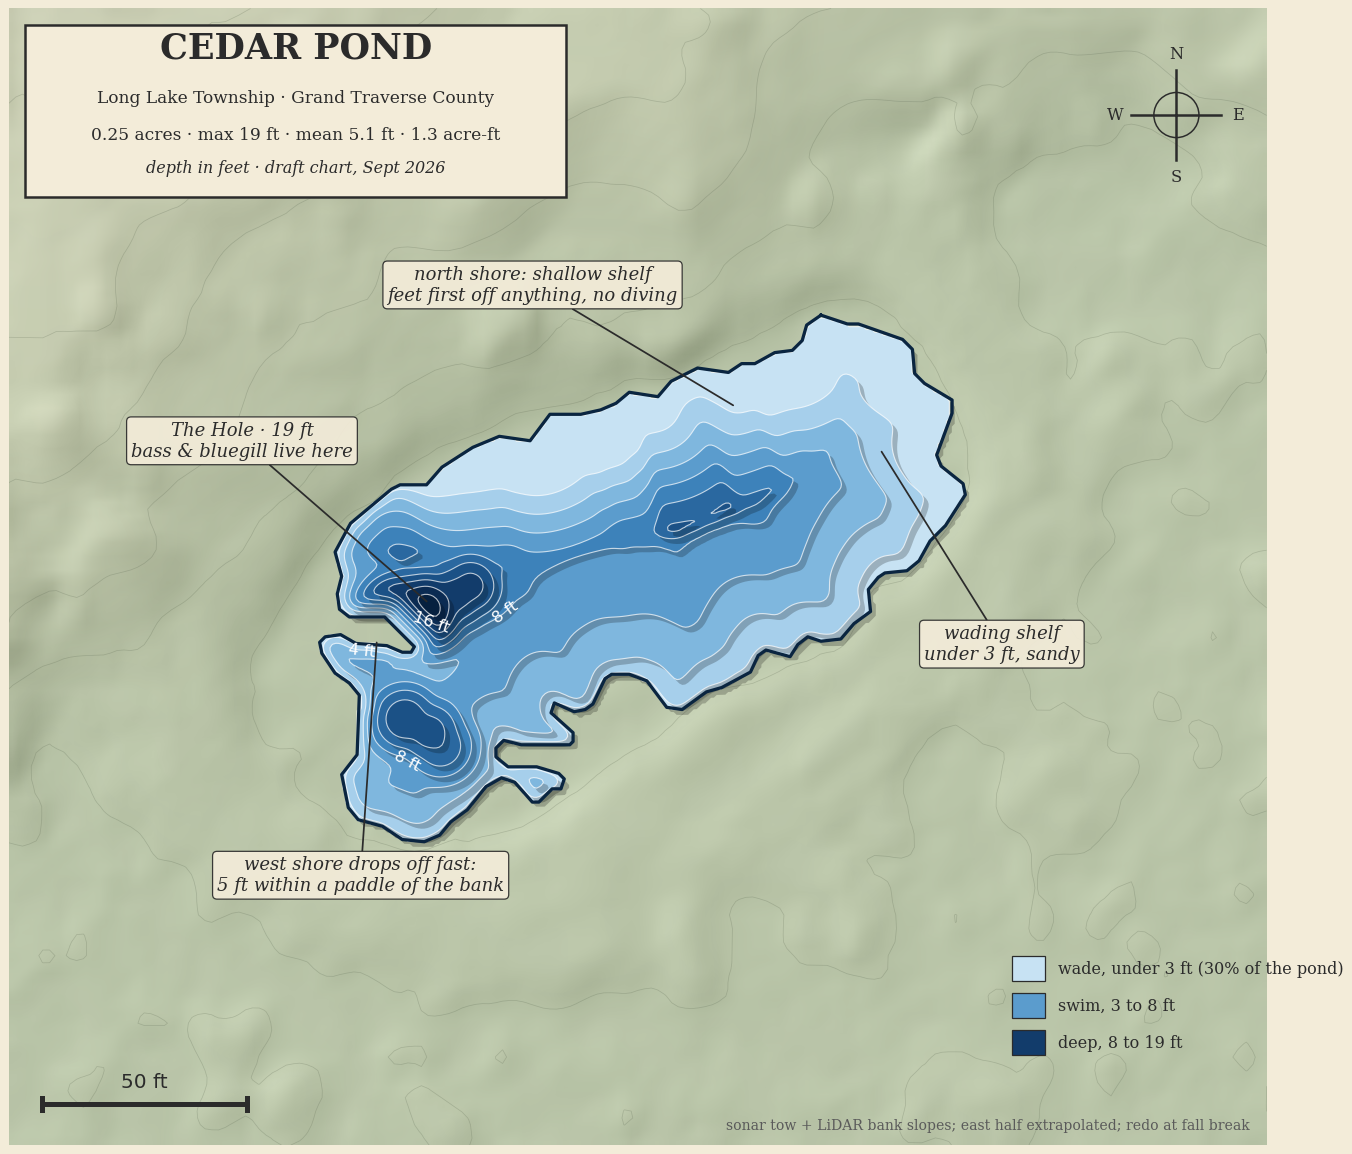
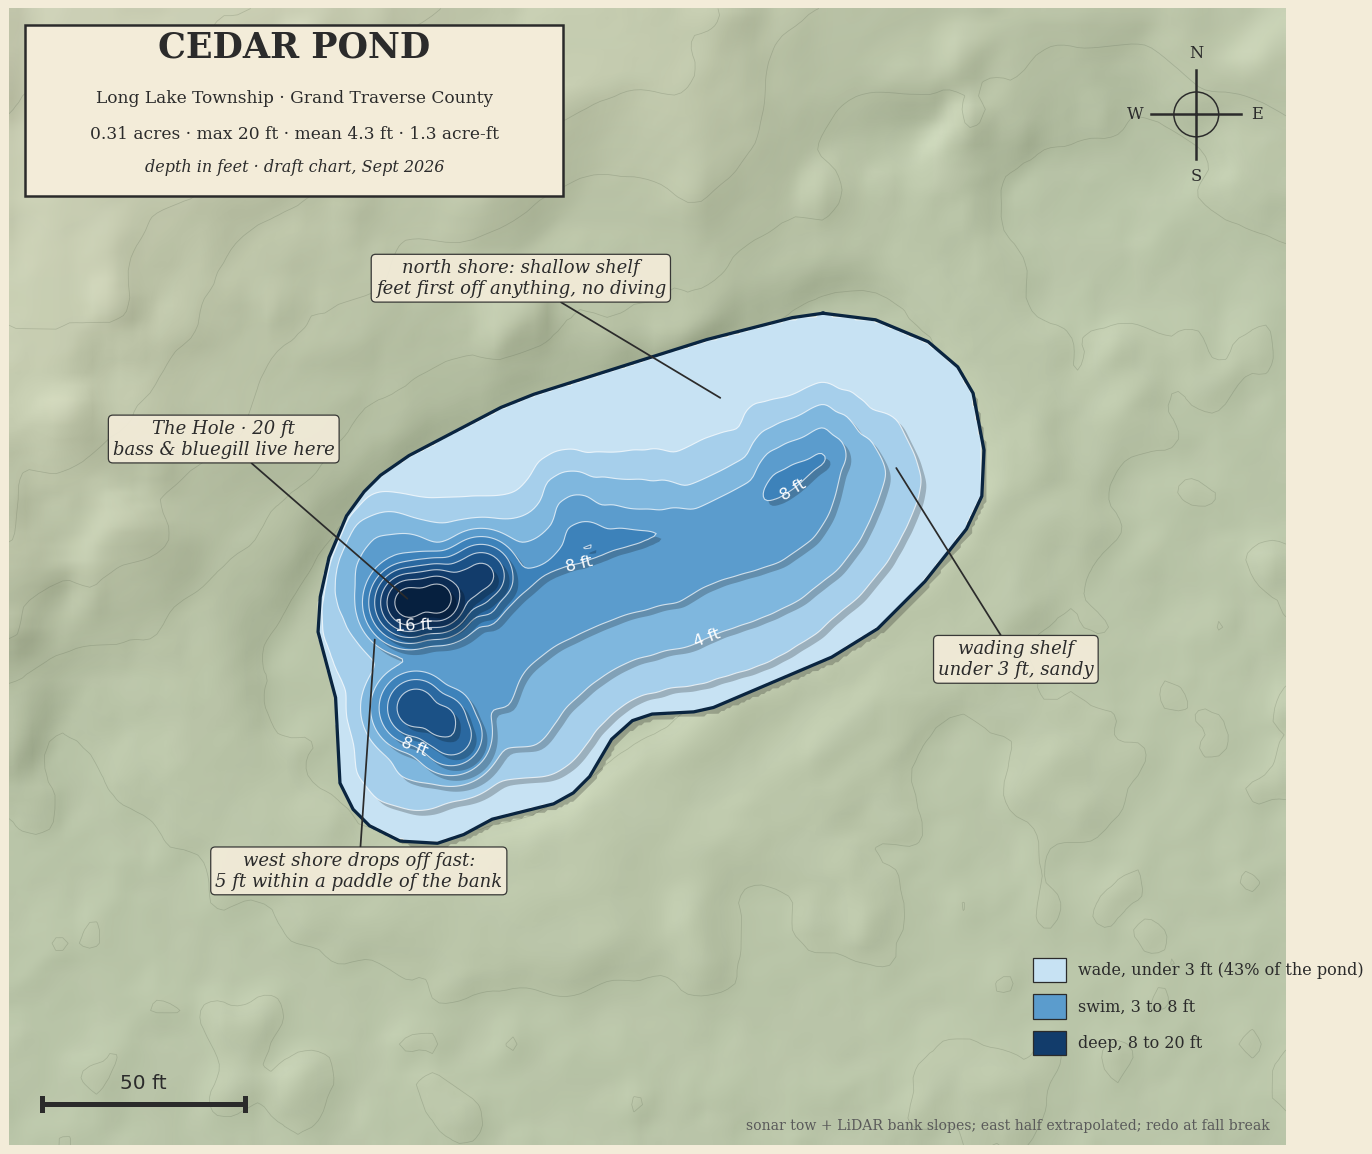
cedar: pond chart v3, rounded shoreline checked against ground photos (0.31 ac)

diff --git a/cedar/index.html b/cedar/index.html
@@ -397,7 +397,7 @@ footer a{color:var(--ink-light)}
   <p class="lead">The fun part. Beach and launch keys hang by the garage door; put them back.</p>
   <div class="embed">
     <a href="cedar_pond_map.png" target="_blank" rel="noopener"><img src="cedar_pond_map.png" alt="Depth chart of the pond: sonar tow plus LiDAR bank slopes" style="display:block;width:100%;height:auto" loading="lazy"></a>
-    <div class="cap">Pond depth chart, draft: a quarter acre of open water, about 19 feet at the hole on the west end, a sandy wading shelf on the east end. The west shore drops off fast and the north shore is a shallow shelf, so feet first off anything. Redone properly at fall break.</div>
+    <div class="cap">Pond depth chart, draft: a third of an acre of open water, about 20 feet at the hole on the west end, a sandy wading shelf on the east end. The west shore drops off fast and the north shore is a shallow shelf, so feet first off anything. Redone properly at fall break.</div>
   </div>
   <div class="grid">
     <div class="card">
